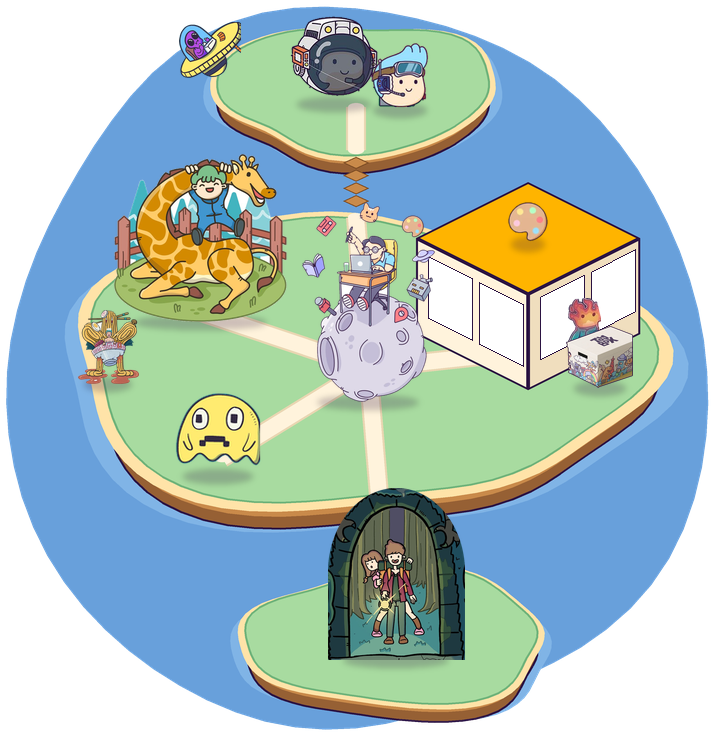
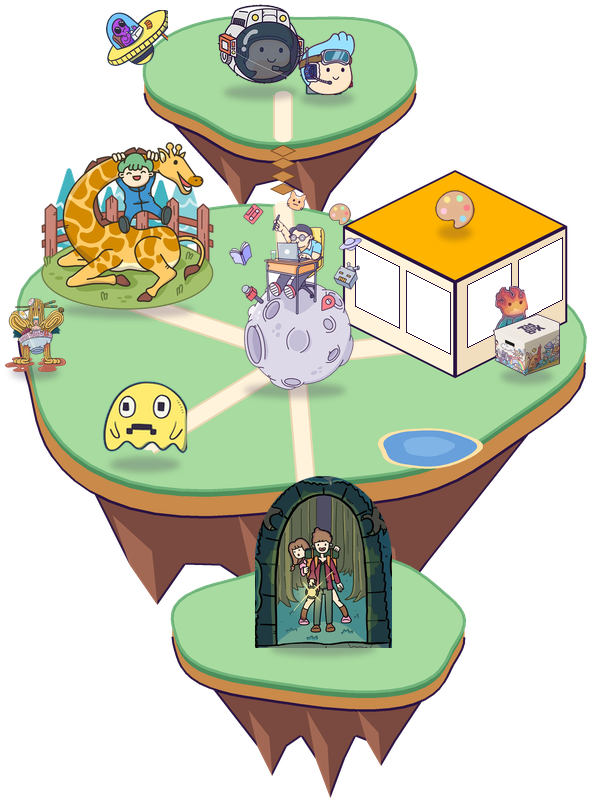
Village as floating islands (owner): grass tops over soil and rock undersides that taper into points, a pond for the shimmer, clouds behind the islands
The map now fits between the header and the tab bar on any phone height. Places,
labels and walkers keep their positions.

Claude-Session: https://claude.ai/code/session_014vZdpTepmb6uBiaAW96HMH

diff --git a/assets/village/village.js b/assets/village/village.js
@@ -1,2 +1,2 @@
 // Generated by scripts/village.py from village.json. Do not edit.
-window.VILLAGE={"w": 715, "h": 736, "frames": [{"wall": "left", "x": 431.7, "y": 259.8, "w": 38.1, "h": 56, "slope": 0.5}, {"wall": "left", "x": 482.1, "y": 285.0, "w": 38.1, "h": 56, "slope": 0.5}, {"wall": "right", "x": 543.7, "y": 300.2, "w": 38.1, "h": 56, "slope": -0.5}, {"wall": "right", "x": 594.1, "y": 275.0, "w": 38.1, "h": 56, "slope": -0.5}], "places": {"observatory": {"box": [286, 8, 382, 104], "label": [334.0, 116]}, "gallery": {"box": [416, 182, 641, 392], "label": [528, 398]}, "studio": {"box": [114, 154, 287, 322], "label": [200.5, 334]}, "home": {"box": [302, 202, 435, 402], "label": [368.5, 406]}, "doodle": {"box": [172, 384, 264, 476], "label": [218.0, 480]}, "hire": {"box": [328, 488, 465, 660], "label": [396.5, 664]}}, "folk": {"ufo": {"piece": "doodles", "box": [179, 22, 241, 78]}, "fire-spirit": {"piece": "rpg", "box": [568, 298, 601, 350]}, "noodle-bath": {"piece": "noodles", "box": [78, 310, 139, 384]}}, "walkers": [{"name": "car", "piece": "road-trip", "src": "assets/sprites/car.png", "h": 52, "face": -1, "aspect": 1.379, "route": [[296, 344], [222, 320]]}, {"name": "dog", "piece": "doodles", "src": "assets/sprites/dog.png", "h": 70, "face": -1, "aspect": 0.713, "route": [[314, 396], [258, 434]]}, {"name": "plug-hero", "piece": "plug-hero", "src": "assets/sprites/plug-hero.png", "h": 66, "face": -1, "aspect": 0.821, "route": [[428, 364], [496, 354]]}, {"name": "orange-monster", "piece": "doodles", "src": "assets/sprites/orange-monster.png", "h": 44, "face": 1, "aspect": 1.078, "route": [[356, 118], [356, 152], [356, 200]]}, {"name": "crab", "piece": "summertime", "src": "assets/sprites/crab.png", "h": 30, "face": 0, "aspect": 1.442, "route": [[288, 634], [324, 616]]}], "scenery": [], "lantern": [384.4, 604.1], "smoke": [[108.5, 328]]};
+window.VILLAGE={"w": 593, "h": 804, "frames": [{"wall": "left", "x": 358.7, "y": 247.8, "w": 38.1, "h": 56, "slope": 0.5}, {"wall": "left", "x": 409.1, "y": 273.0, "w": 38.1, "h": 56, "slope": 0.5}, {"wall": "right", "x": 470.7, "y": 288.2, "w": 38.1, "h": 56, "slope": -0.5}, {"wall": "right", "x": 521.1, "y": 263.0, "w": 38.1, "h": 56, "slope": -0.5}], "places": {"observatory": {"box": [213, -4, 309, 92], "label": [261.0, 104]}, "gallery": {"box": [343, 170, 568, 380], "label": [455, 386]}, "studio": {"box": [41, 142, 214, 310], "label": [127.5, 322]}, "home": {"box": [229, 190, 362, 390], "label": [295.5, 394]}, "doodle": {"box": [99, 372, 191, 464], "label": [145.0, 468]}, "hire": {"box": [255, 476, 392, 648], "label": [323.5, 652]}}, "folk": {"ufo": {"piece": "doodles", "box": [106, 10, 168, 66]}, "fire-spirit": {"piece": "rpg", "box": [495, 286, 528, 338]}, "noodle-bath": {"piece": "noodles", "box": [5, 298, 66, 372]}}, "walkers": [{"name": "car", "piece": "road-trip", "src": "assets/sprites/car.png", "h": 52, "face": -1, "aspect": 1.379, "route": [[223, 332], [149, 308]]}, {"name": "dog", "piece": "doodles", "src": "assets/sprites/dog.png", "h": 70, "face": -1, "aspect": 0.713, "route": [[241, 384], [185, 422]]}, {"name": "plug-hero", "piece": "plug-hero", "src": "assets/sprites/plug-hero.png", "h": 66, "face": -1, "aspect": 0.821, "route": [[355, 352], [423, 342]]}, {"name": "orange-monster", "piece": "doodles", "src": "assets/sprites/orange-monster.png", "h": 44, "face": 1, "aspect": 1.078, "route": [[283, 106], [283, 140], [283, 188]]}, {"name": "crab", "piece": "summertime", "src": "assets/sprites/crab.png", "h": 30, "face": 0, "aspect": 1.442, "route": [[215, 622], [251, 604]]}], "scenery": [], "lantern": [311.4, 592.1], "smoke": [[35.5, 316]]};

diff --git a/js/game.js b/js/game.js
@@ -81,6 +81,8 @@ function renderMap(){
   const places=PLACES.filter(p=>!p.feature||feature(p.feature));
   const art=featuredSix(4);
   W.style.height="";W.className="g-map-wrap v-map";W.style.aspectRatio=`${V.w}/${V.h}`;
+  // the whole village fits between the header and the tab bar: the width follows the height left on screen
+  W.style.width=`min(100%, calc((100dvh - 300px) * ${(V.w/V.h).toFixed(4)}))`;
   W.innerHTML=`<img class="v-ground" src="assets/village/village.png" alt="" decoding="async" fetchpriority="high">`+
     V.frames.map((f,k)=>{const p=art[k];if(!p)return "";const deg=(Math.atan(f.slope)*180/Math.PI).toFixed(2);
       return `<img class="v-frame" src="${thumbOf(p)}" alt="" decoding="async" style="left:${pct(f.x,V.w)};top:${pct(f.y,V.h)};width:${pct(f.w,V.w)};height:${pct(f.h,V.h)};transform:skewY(${deg}deg)">`}).join("")+
@@ -111,7 +113,7 @@ function villageLife(V){
   const night=(h=>h<6||h>=19)(new Date().getHours());
   $("gMapWrap").classList.toggle("night",night);
   let css="",html=`<img class="v-shimmer" src="assets/village/shimmer.png" alt="" decoding="async">`+
-    // clouds drift over the drawn village only (masked by its picture), never as grey blobs on the night sky
+    // clouds drift through the sky behind the floating islands, so they never cross a face
     `<div class="v-sky"><div class="v-cloudrow" style="top:${pct(V.h*.06,V.h)}"><i class="v-cloud" style="animation-duration:84s;animation-delay:-30s"></i></div>`+
     `<div class="v-cloudrow" style="top:${pct(V.h*.62,V.h)}"><i class="v-cloud small" style="animation-duration:72s;animation-delay:-58s"></i></div></div>`;
   if(V.lantern)html+=`<i class="v-lantern" style="left:${pct(V.lantern[0],V.w)};top:${pct(V.lantern[1],V.h)}"></i>`;

diff --git a/css/game.css b/css/game.css
@@ -447,14 +447,15 @@ body.game-mode .toast.show{transform:translate(-50%,0)}
    start of their route, the steam and shimmer are not shown, the lantern glows still. */
 .v-shimmer{position:absolute;inset:0;width:100%;height:100%;pointer-events:none;opacity:0;animation:vShimmer 10s ease-in-out infinite}
 @keyframes vShimmer{50%{opacity:.1}}
-.v-sky{position:absolute;inset:0;pointer-events:none;-webkit-mask:url(../assets/village/village.png) 0 0/100% 100% no-repeat;mask:url(../assets/village/village.png) 0 0/100% 100% no-repeat}
+.v-sky{position:absolute;inset:0;pointer-events:none;z-index:-1}
+.v-map{isolation:isolate}
 .v-cloudrow{position:absolute;left:0;width:100%;height:14%;pointer-events:none}
-.v-cloud{position:absolute;left:0;top:30%;display:block;width:20%;aspect-ratio:3/1;border-radius:999px;background:#fff;opacity:.35;
+.v-cloud{position:absolute;left:0;top:30%;display:block;width:20%;aspect-ratio:3/1;border-radius:999px;background:#fff;opacity:.22;
   transform:translateX(-110%);animation:vCloud 80s linear infinite}
 .v-cloud::before,.v-cloud::after{content:"";position:absolute;bottom:40%;border-radius:50%;background:inherit}
 .v-cloud::before{left:18%;width:34%;aspect-ratio:1}
 .v-cloud::after{left:44%;width:44%;aspect-ratio:1}
-.v-cloud.small{width:14%;opacity:.35}
+.v-cloud.small{width:14%;opacity:.18}
 @keyframes vCloud{from{transform:translateX(-110%)}to{transform:translateX(560%)}}
 .v-cloud.small{animation-name:vCloudS}
 @keyframes vCloudS{from{transform:translateX(-110%)}to{transform:translateX(720%)}}

diff --git a/scripts/village.py b/scripts/village.py
@@ -15,13 +15,14 @@ from PIL import Image, ImageDraw, ImageFilter
 
 ROOT = os.path.dirname(os.path.dirname(os.path.abspath(__file__)))
 OUT = os.path.join(ROOT, "assets", "village")
-W, H = 720, 880
+W, H = 720, 1000
 S = 4  # supersampling for the shapes
 
 INK = (43, 19, 66)
 GRASS, GRASS_L, GRASS_R = (168, 219, 160), (111, 179, 122), (78, 142, 92)
 SAND = (255, 227, 168)
 CLIFF, CLIFF_DARK = (201, 138, 74), (150, 96, 52)
+ROCK, ROCK_LIT = (122, 74, 64), (163, 104, 84)
 PATH, PATH_EDGE = (255, 243, 220), (233, 214, 178)
 SEA, SEA_LIGHT = (104, 160, 219), (128, 180, 230)
 PLANK, PLANK_EDGE = (201, 138, 74), (122, 74, 34)
@@ -53,16 +54,59 @@ def scaled(pts, cx, cy, k, dy=0):
     return [(cx + (x - cx) * k, cy + (y - cy) * k + dy) for x, y in pts]
 
 
-def island(d, cx, cy, hw, hh, depth, seed=1, k=.97):
-    """A real island instead of a flat tile: shallow water around it, earth cliffs below, a sand beach, grass on top."""
+def island(d, cx, cy, hw, hh, depth, seed=1, k=.97, tips=((-.45, .32), (0, .48), (.42, .3))):
+    """A floating island: a grass top over a soil band, and a rock underside that tapers into points.
+    tips: (x offset as a share of the width, depth as a share of the width) for each hanging point."""
+    import math
     top = blob(cx, cy, hw * k, hh * .9, seed, wobble=.11)
-    d.polygon(P(scaled(top, cx, cy, 1.1, depth * .6)), fill=SEA_LIGHT)            # shallows
-    for k in range(depth, 0, -2):                                                   # cliff: the outline stacked downwards
-        d.polygon(P(scaled(top, cx, cy, 1.0, k)), fill=CLIFF_DARK if k > depth * .55 else CLIFF)
-    d.line(P(scaled(top, cx, cy, 1.0, depth) + [scaled(top, cx, cy, 1.0, depth)[0]]), fill=INK, width=2 * S)
-    d.polygon(P(scaled(top, cx, cy, 1.05, 2)), fill=SAND)                            # beach
+    rx = hw * k
+    # the front half of the outline, left to right, at the bottom of the soil band
+    left = min(range(len(top)), key=lambda i: top[i][0])
+    right = max(range(len(top)), key=lambda i: top[i][0])
+    front, i = [], left
+    while True:   # points with angles from pi down to 0 run through the front (larger y)
+        front.append((top[i][0], top[i][1] + depth))
+        if i == right:
+            break
+        i = (i - 1) % len(top)
+    if front[len(front) // 2][1] < cy:   # walked the back edge: go the other way round
+        front, i = [], left
+        while True:
+            front.append((top[i][0], top[i][1] + depth))
+            if i == right:
+                break
+            i = (i + 1) % len(top)
+    # rock underside: from the right end, down to each point and back up between them, to the left end
+    under = []
+    pts = sorted(tips, key=lambda t: -t[0])
+    base = cy + hh * .9 + depth
+    for j, (ox, dep) in enumerate(pts):
+        x = cx + ox * rx
+        if j:
+            px = cx + pts[j - 1][0] * rx
+            under.append(((x + px) / 2, base + rx * .18))           # the valley between two points
+        under.append((x + rx * .1, base + rx * dep * .55))        # shoulder
+        under.append((x, base + rx * dep))                         # the point
+        under.append((x - rx * .1, base + rx * dep * .55))
+    rock = front + under
+    d.polygon(P(rock), fill=ROCK, outline=INK, width=2 * S)
+    for ox, dep in pts:   # a lit face on the left of each point
+        x = cx + ox * rx
+        d.polygon(P([(x - rx * .1, base + rx * dep * .55), (x, base + rx * dep), (x - rx * .02, base + rx * dep * .4), (x - rx * .16, base)]), fill=ROCK_LIT)
+    for kk in range(depth, 0, -2):   # soil band under the grass
+        d.polygon(P(scaled(top, cx, cy, 1.0, kk)), fill=CLIFF)
+    d.line(P(front), fill=INK, width=2 * S)
+    d.polygon(P(scaled(top, cx, cy, 1.0, 6)), fill=GRASS_R)   # the turf's own thickness
     d.polygon(P(top), fill=GRASS)
-    d.line(P(top + [top[0]]), fill=GRASS_L, width=2 * S)
+    d.line(P(top + [top[0]]), fill=GRASS_L, width=3 * S)
+
+
+def pond(d, cx, cy, rx, ry):
+    """A small pond on the main island (the water that shimmers)."""
+    pts = blob(cx, cy, rx, ry, 5, wobble=.08)
+    d.polygon(P(scaled(pts, cx, cy, 1.12)), fill=SAND)
+    d.polygon(P(pts), fill=SEA)
+    d.polygon(P(scaled(pts, cx, cy - ry * .2, .55)), fill=SEA_LIGHT)
 
 
 def path(d, pts, w=16):
@@ -126,11 +170,11 @@ def build():
     base = Image.new("RGBA", (W * S, H * S))
     d = ImageDraw.Draw(base)
     # the calm sea: one soft diamond, with a lighter band
-    d.polygon(P(blob(360, 490, 350, 360, 4, wobble=.04)), fill=SEA)              # the sea around the islands
     # islands: main, the observatory islet (top) and the gate islet (bottom)
-    island(d, 360, 205, 140, 70, 18, seed=2)
+    island(d, 360, 205, 140, 70, 18, seed=2, tips=((-.3, .4), (.25, .5)))
     island(d, 360, 480, 310, 155, 26, seed=1, k=.9)
-    island(d, 400, 755, 150, 75, 18, seed=3)
+    island(d, 400, 755, 150, 75, 18, seed=3, tips=((-.35, .45), (.05, .6), (.4, .38)))
+    pond(d, 505, 578, 46, 18)
     bridge(d, (360, 268), (360, 332), 5)
     bridge(d, (384, 628), (396, 688), 5)
     # paths from Ekky's home to every place

diff --git a/docs/motion.md b/docs/motion.md
@@ -67,7 +67,7 @@ step "jelly", mouse parallax, magnetic buttons, 3D tilt, and the click sparkle b
 | Result | title fades up, 1 s | the round is over, here is your score |
 | Village places | still; a tapped place's label lifts 4 px and glows once (300 ms), then the place opens | "I'm going there" |
 | Village walkers (V3) | 5 of Ekky's characters (at most 2 from one piece: the Road Trip car, Plug Hero, the crab and two doodles) walk their path, 1 tile (36 px) per 1.6 s, pause 2 s at each end and 0.8 s at corners, and turn to face where they go | the village is lived in; tap one to see the artwork it comes from |
-| Village clouds | two clouds cross over the island, 72 and 84 s, only over the drawn village | the background loop of the village |
+| Village clouds | two faint clouds drift through the sky behind the floating islands, 72 and 84 s | the background loop of the village; they never cross a face |
 | Gate lantern | soft glow, one pulse every 6 s | points to "Work with Ekky" |
 | Noodle Bath steam | one puff every 6 s | the bath is warm (the only smoke: the snack bar could not be cut cleanly) |
 | Water | lightens by at most 10 % over 10 s | the sea is water, not paint |
